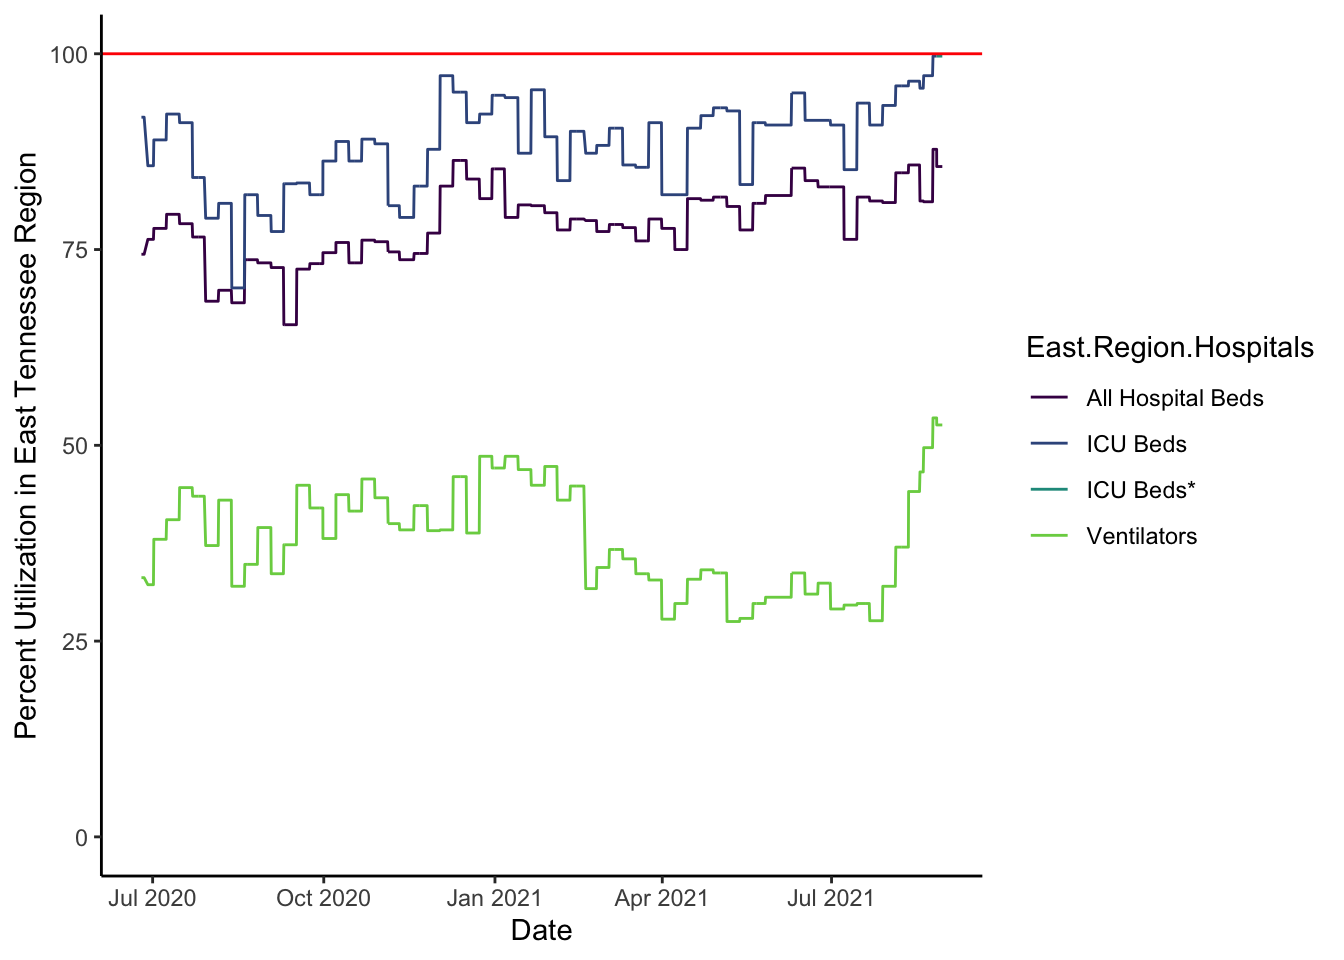
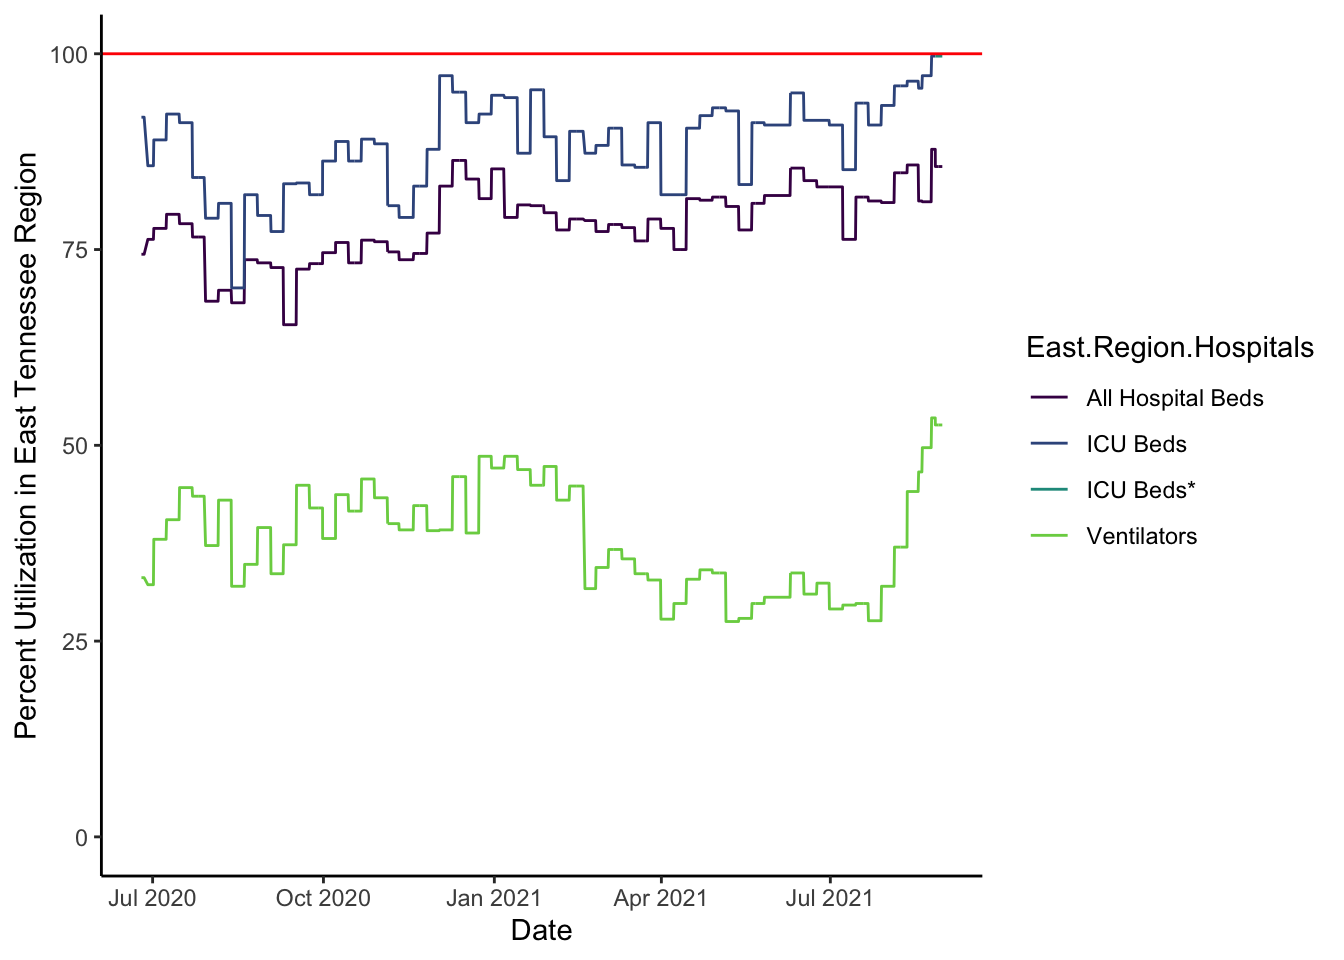
updating site

diff --git a/docs/covid.html b/docs/covid.html
@@ -381,7 +381,7 @@ $(document).ready(function () {
 <li><a href="https://healthdata.gov/dataset/covid-19-reported-patient-impact-and-hospital-capacity-facility">US HHS hospitalization by facility</a></li>
 </ul>
 <hr />
-<p>The following plots are created in R using data from <a href="https://covid19datahub.io" class="uri">https://covid19datahub.io</a> (Guidotti, E., Ardia, D., (2020), “COVID-19 Data Hub”, Working paper, doi: 10.13140/RG.2.2.11649.81763), as well as information from Google and the <a href="https://www.tn.gov/health/cedep/ncov/data/downloadable-datasets.html">state of Tennessee dataset page</a> and plotting and analysis using the <code>forecast</code>, <code>ggplot2</code>, <code>reshape2</code>, and <code>dplyr</code> packages. Plots created on 2021-08-29 13:14:23. I use a seven day rolling average for most plots using the <code>geom_ma</code> function of <code>tidyquant</code>.</p>
+<p>The following plots are created in R using data from <a href="https://covid19datahub.io" class="uri">https://covid19datahub.io</a> (Guidotti, E., Ardia, D., (2020), “COVID-19 Data Hub”, Working paper, doi: 10.13140/RG.2.2.11649.81763), as well as information from Google and the <a href="https://www.tn.gov/health/cedep/ncov/data/downloadable-datasets.html">state of Tennessee dataset page</a> and plotting and analysis using the <code>forecast</code>, <code>ggplot2</code>, <code>reshape2</code>, and <code>dplyr</code> packages. Plots created on 2021-08-30 09:09:04. I use a seven day rolling average for most plots using the <code>geom_ma</code> function of <code>tidyquant</code>.</p>
 <h2 id="cases">
 Cases
 </h2>
@@ -533,7 +533,7 @@ Cases locally
 <h2 id="hospitalization">
 Hospitalization
 </h2>
-<p>As of the last time the data were updated (likely 3 days ago), regional hospitals had 5 ICU beds available of 317 total (so was at 98 percent capacity), and 200 available ventilators out of 422 total, (so was at 53 percent capacity). The hospitals overall had 374 beds available of 3076 total (so was at 88 percent capacity). This is based on 19 acute care hospitals in the East TN region; based on the 14 counties these hospitals are in, these serve at least 1,235,720 people. When a line hits 100% (indicated in red), the local hospitals are theoretically full for that resource (for <em>all</em> patients, not just covid patients), though there is surge capacity on top of this. Note that these data are updated only weekly, so current conditions maybe be much better or worse than these plots show. Data on capacity from Knox County’s dashboard, data on hospitalizations and testing over time from the state data.</p>
+<p>As of the last time the data were updated (likely 4 days ago), regional hospitals had 5 ICU beds available of 317 total (so was at 98 percent capacity), and 200 available ventilators out of 422 total, (so was at 53 percent capacity). The hospitals overall had 374 beds available of 3076 total (so was at 88 percent capacity). This is based on 19 acute care hospitals in the East TN region; based on the 14 counties these hospitals are in, these serve at least 1,235,720 people. When a line hits 100% (indicated in red), the local hospitals are theoretically full for that resource (for <em>all</em> patients, not just covid patients), though there is surge capacity on top of this. Note that these data are updated only weekly, so current conditions maybe be much better or worse than these plots show. Data on capacity from Knox County’s dashboard, data on hospitalizations and testing over time from the state data.</p>
 <p><img src="covid_files/figure-html/hospitalcapacityplot-1.png" width="672" /></p>
 <p>Trends in hospitalization of covid patients over time. The vertical dotted line shows the last day with updated capacity information from Knox County, when there were 5 ICU beds available (ignoring surge capacity) for people in the East Tennessee region. The seven day average is shown.</p>
 <p><img src="covid_files/figure-html/plotsD-1.png" width="672" /></p>
